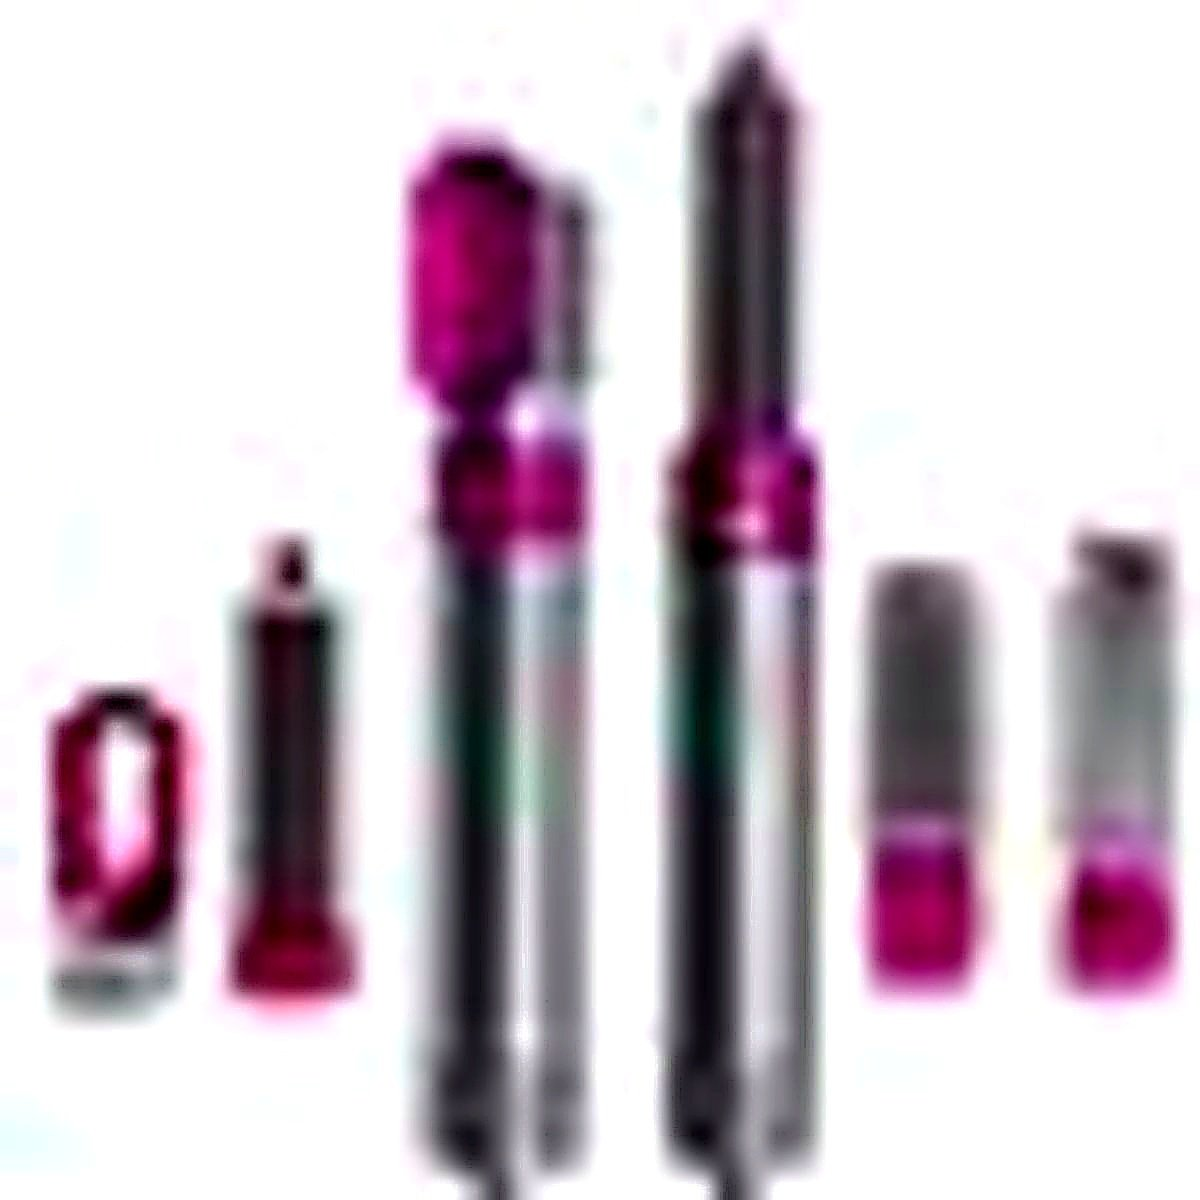
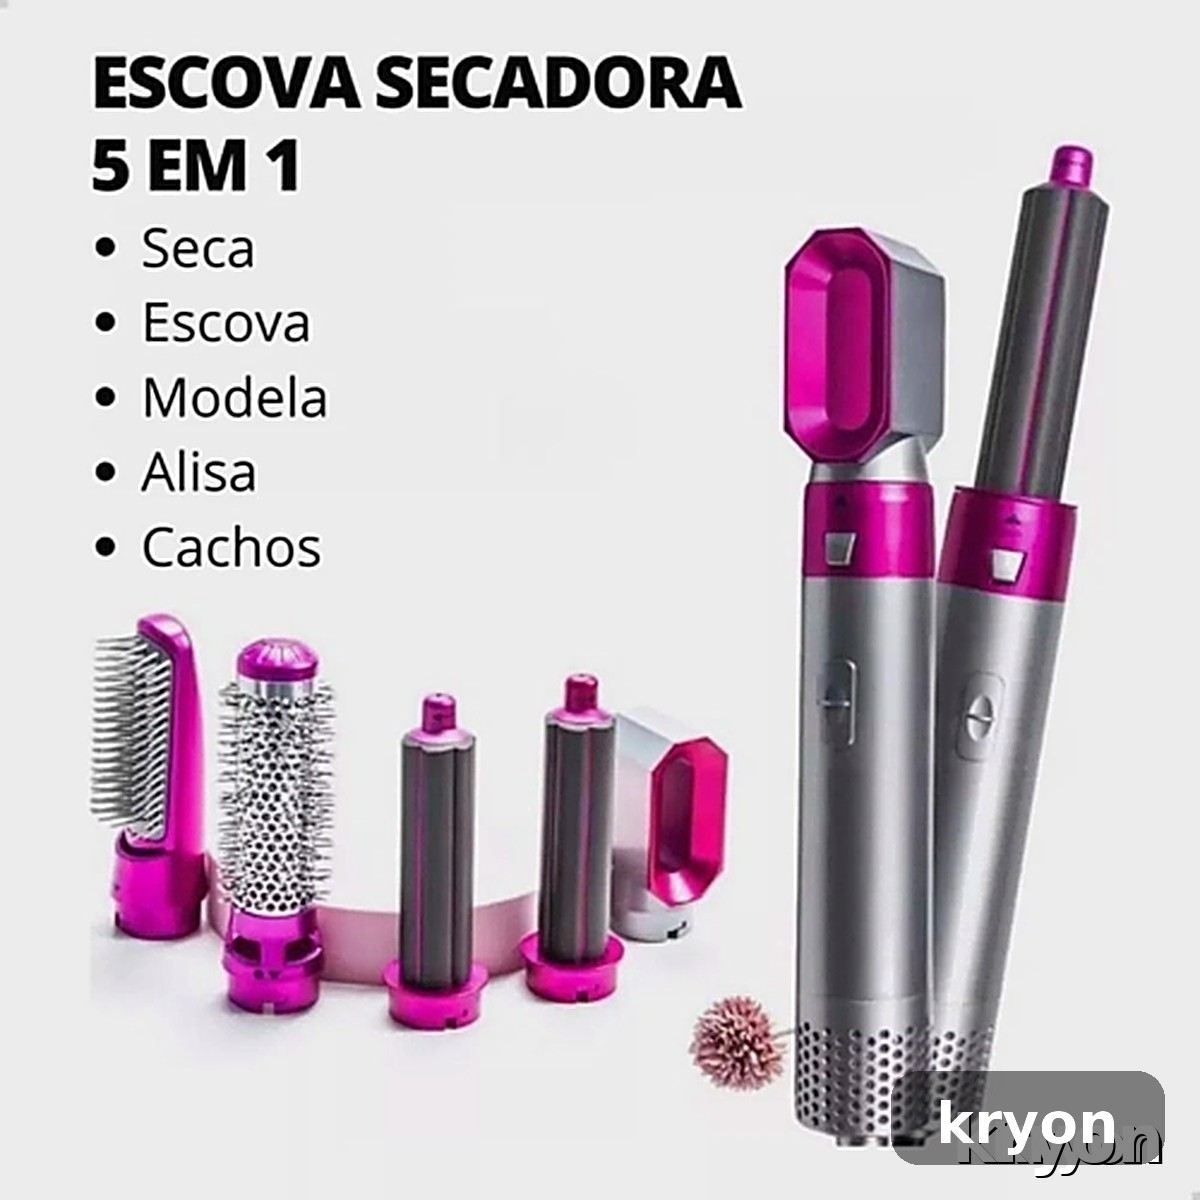
feat: replace hair styler product images with watermark kryon and enhanced quality Co-authored-by: monkeycode-ai <monkeycode-ai@chaitin.com>

diff --git a/js/produtos.js b/js/produtos.js
@@ -171,8 +171,8 @@ const PRODUTOS = [
     "id": "modelador-cabelo-5em1-klack",
     "nome": "Modelador de Cabelo 5 em 1 Klack - Volumizador e Rizos",
     "categoria": "Lifestyle",
-    "preco": 139.9,
-    "precoAnterior": 179.9,
+    "preco": 95.0,
+    "precoAnterior": 109.25,
     "desconto": null,
     "destaque": true,
     "novidade": true,
@@ -184,7 +184,10 @@ const PRODUTOS = [
       "images/produtos/modelador-cabelo-5em1-3.jpg",
       "images/produtos/modelador-cabelo-5em1-4.jpg",
       "images/produtos/modelador-cabelo-5em1-5.jpg",
-      "images/produtos/modelador-cabelo-5em1-6.jpg"
+      "images/produtos/modelador-cabelo-5em1-6.jpg",
+      "images/produtos/modelador-cabelo-5em1-7.jpg",
+      "images/produtos/modelador-cabelo-5em1-8.jpg",
+      "images/produtos/modelador-cabelo-5em1-9.jpg"
     ],
     "curto": "Secador, modelador, ferro e escova num só aparelho — cria volume, rizos e ondulação com tecnologia de íons negativos.",
     "descricao": "O Modelador 5 em 1 Klack® combina secador, modelador, ferro e escova numa única ferramenta de ar quente. Perfeito para secar e pentear o cabelo enquanto cria volume com facilidade. A tecnologia de íons negativos satura o fluxo de ar, ajudando a condicionar o cabelo, nutrir os fios danificados, reduzir a estática e deixar o cabelo brilhante, macio e fácil de pentear.",
